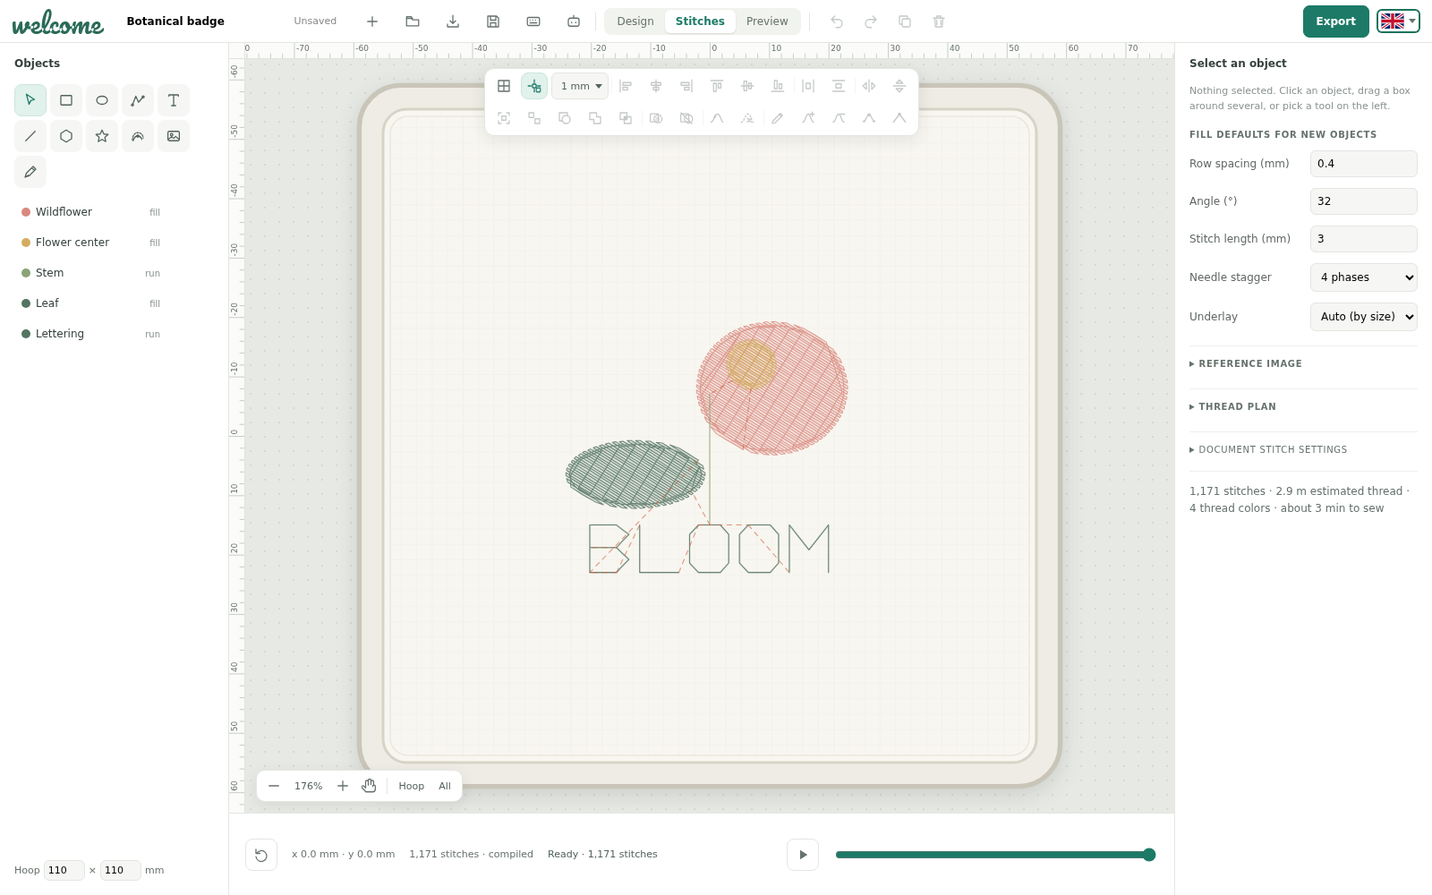
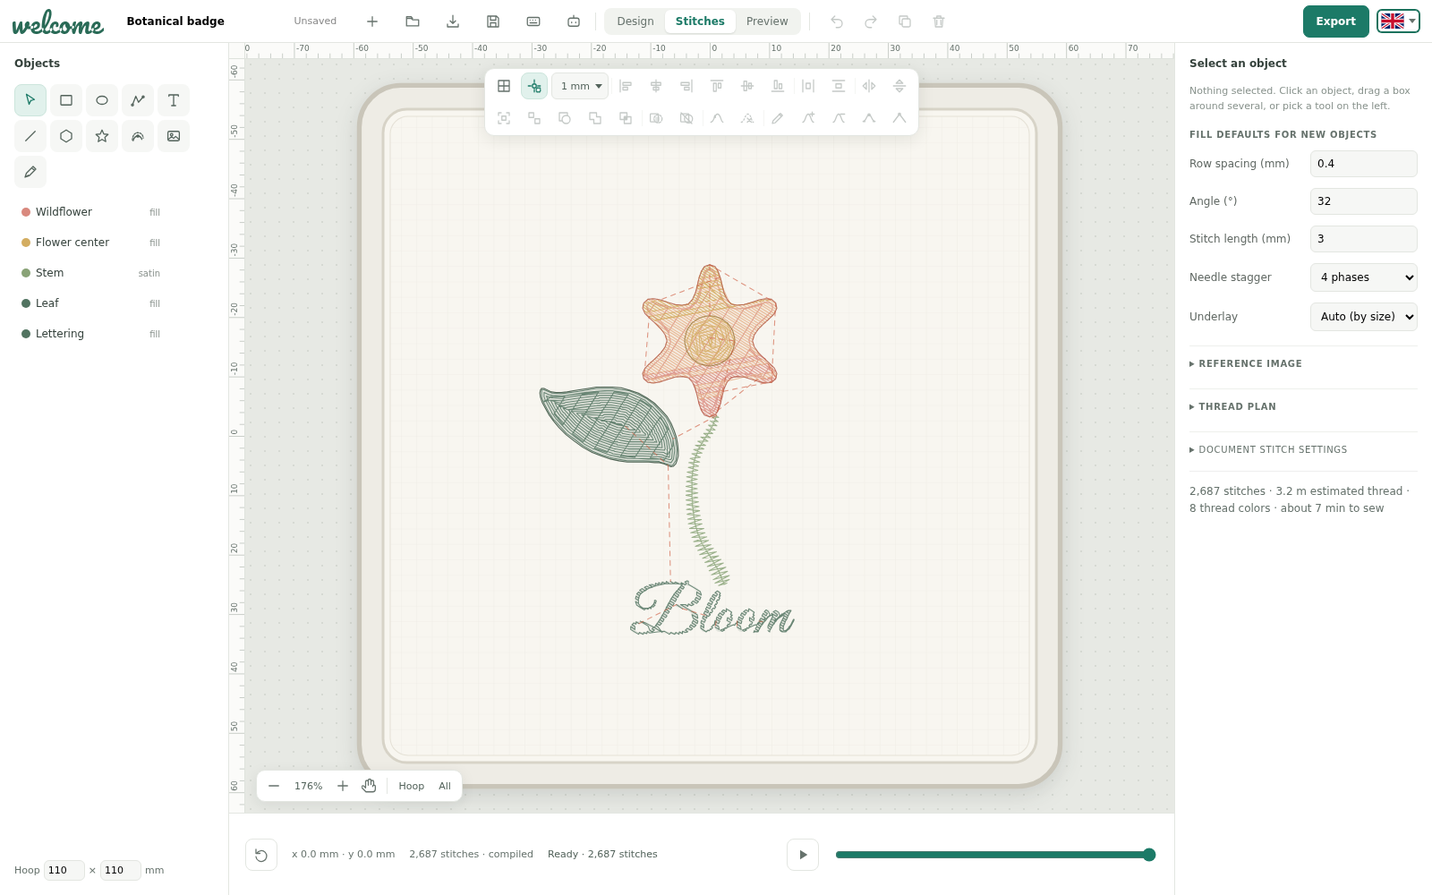
Improve the default botanical badge design

Changed region(s): [[0.375, 0.279, 0.5938, 0.713], [0.5312, 0.589, 0.5625, 0.62]]

diff --git a/index.html b/index.html
@@ -1,5 +1,5 @@
 <!doctype html>
-<html lang="en"><head><meta charset="utf-8"><meta name="viewport" content="width=device-width,initial-scale=1"><title>Welcome Embroidery</title><link rel="stylesheet" href="/styles.css"></head>
+<html lang="en"><head><meta charset="utf-8"><meta name="viewport" content="width=device-width,initial-scale=1"><title>Welcome Embroidery</title><link rel="stylesheet" href="styles.css"></head>
 <body>
 <svg class="icon-defs" aria-hidden="true" focusable="false"><defs>
  <symbol id="i-new" viewBox="0 0 24 24"><path d="M12 5v14M5 12h14"/></symbol>
@@ -110,4 +110,4 @@
 <div class="btn-row"><button id="ordBack" title="Sew first">To back</button><button id="ordBackward" title="Sew earlier">Earlier</button><button id="ordForward" title="Sew later">Later</button><button id="ordFront" title="Sew last">To front</button><button id="ordSort" title="Group objects by thread colour to minimise colour changes">Sort by colour</button></div>
 </details><details id="secRef" class="sec-fold"><summary>Reference image</summary><p id="refEmpty" class="sel-hint">Load a picture to draw over: it is shown under your shapes (never sewn), so you can trace it by hand with the drawing tools.</p><input id="refFile" type="file" accept="image/*" hidden><div class="btn-row"><button type="button" id="refLoad">Load picture…</button><button type="button" id="refRemove" hidden>Remove</button></div><div id="refControls" hidden><label>Opacity (%)<input id="refOpacity" type="range" min="5" max="100" step="5" value="50"></label><label>Show the picture <input id="refVisible" type="checkbox" checked></label><label>Lock its position <input id="refLocked" type="checkbox"></label><div class="xywh"><label>X<input id="refX" type="number" step="0.5"></label><label>Y<input id="refY" type="number" step="0.5"></label><label>W<input id="refW" type="number" min="1" step="0.5"></label><label>H<input id="refH" type="number" min="1" step="0.5"></label></div><div class="btn-row"><button type="button" id="refFit">Fit to hoop</button><button type="button" id="refMove" title="Drag the picture on the canvas to position it">Move on canvas</button></div></div></details><details id="secPlan" class="sec-fold"><summary>Thread plan</summary><p id="planEmpty" class="sel-hint">Compile the design to see the thread colours in sewing order.</p><div id="planList" class="plan-list"></div></details><details id="secDoc" class="doc-settings"><summary>Document stitch settings</summary><label>Tie-in / tie-off <input id="ties" type="checkbox"></label><label>Trim long jumps <input id="trims" type="checkbox"></label><label>Underlay <input id="underlay" type="checkbox" checked></label><label>Pull compensation (mm)<input id="comp" type="number" min="0" max="2" value="0.2" step="0.05"></label></details><p id="stats">No generated stitches.</p></aside></div><dialog id="agentDialog"><form method="dialog"><h2>Connect an AI agent</h2><p id="agentStatus" role="status" aria-live="polite"></p><label class="agent-field">MCP endpoint (private link)<input id="agentUrl" readonly spellcheck="false"></label><div class="agent-actions"><button type="button" id="agentCopy">Copy URL</button><button type="button" id="agentRevoke">Revoke &amp; make new link</button></div><p class="agent-help">Anyone holding this link can read and edit the design open in this tab, so share it only with your agent. Your design stays in this browser; the server only relays the agent's requests while this tab is open. Closing the tab ends the link. In the agent, use <code>documentId: "live"</code>, for example: “Use the Welcome MCP to draw a leaf badge with BLOOM lettering on the live document, then export JEF.”</p><button>Close</button></form></dialog>
 <div id="fontPanel" class="font-panel" role="dialog" aria-label="Choose a font" hidden><input id="fontSearch" type="search" placeholder="Search 195 fonts…" aria-label="Search fonts"><div id="fontChips" class="chips" role="group" aria-label="Font categories"></div><div id="fontList" class="font-list" role="listbox" aria-label="Fonts"></div><div class="font-foot"><button type="button" id="fontLoadFile">Load a TrueType file…</button><input id="fontFile" type="file" accept=".ttf,font/ttf,application/x-font-ttf" hidden><span>Fonts shown with your text · OFL / CC-BY-SA licences listed per font</span></div></div>
-<dialog id="traceDialog"><form method="dialog"><h2>Trace a picture</h2><p class="dlg-note">Turns a logo, drawing or clip art into filled shapes, one per colour region. For photographs use the photo stitch tool instead.</p><label class="agent-field">Picture<input id="traceFile" type="file" accept="image/*"></label><label>Mode<select id="traceMode"><option value="regions">Colour regions (filled shapes)</option><option value="lines">Line art (strokes)</option></select></label><label id="traceColorsRow">Colours<input id="traceColors" type="number" min="2" max="16" value="6"></label><label>Detail<select id="traceDetail"><option value="0.3">Fine</option><option value="0.5" selected>Normal</option><option value="1.2">Smooth</option></select></label><label>Width (mm)<input id="traceWidth" type="number" min="10" max="200" step="1" value="60"></label><label id="traceBgRow">Skip the background colour <input id="traceBg" type="checkbox" checked></label><p id="traceInfo" role="status"></p><div class="agent-actions"><button type="button" id="traceGo">Trace</button><button value="cancel">Cancel</button></div></form></dialog><dialog id="keysDialog"><form method="dialog"><h2>Keyboard shortcuts</h2><div id="keysList" class="keys-list"></div><button>Close</button></form></dialog><dialog id="restoreDialog"><form method="dialog"><h2>Restore your last design?</h2><p id="restoreInfo" class="dlg-note"></p><div class="agent-actions"><button type="button" id="restoreYes">Restore</button><button type="button" id="restoreNo">Start fresh</button></div></form></dialog><div id="threadPop" role="dialog" aria-label="Choose a thread colour" hidden></div><dialog id="exportDialog"><form method="dialog"><h2>Export embroidery</h2><select id="format"><option value="jef">JEF · Janome</option><option value="vp3">VP3 · Pfaff</option><option value="dst">DST · Tajima (widely supported)</option><option value="svg">SVG · vector design (Inkscape)</option></select><button id="download">Compile & download</button><button>Cancel</button><p>Check hoop and thread choices for your machine and materials.</p></form></dialog><div id="toast" role="status"></div><script type="module" src="/src/app.js"></script></body></html>
+<dialog id="traceDialog"><form method="dialog"><h2>Trace a picture</h2><p class="dlg-note">Turns a logo, drawing or clip art into filled shapes, one per colour region. For photographs use the photo stitch tool instead.</p><label class="agent-field">Picture<input id="traceFile" type="file" accept="image/*"></label><label>Mode<select id="traceMode"><option value="regions">Colour regions (filled shapes)</option><option value="lines">Line art (strokes)</option></select></label><label id="traceColorsRow">Colours<input id="traceColors" type="number" min="2" max="16" value="6"></label><label>Detail<select id="traceDetail"><option value="0.3">Fine</option><option value="0.5" selected>Normal</option><option value="1.2">Smooth</option></select></label><label>Width (mm)<input id="traceWidth" type="number" min="10" max="200" step="1" value="60"></label><label id="traceBgRow">Skip the background colour <input id="traceBg" type="checkbox" checked></label><p id="traceInfo" role="status"></p><div class="agent-actions"><button type="button" id="traceGo">Trace</button><button value="cancel">Cancel</button></div></form></dialog><dialog id="keysDialog"><form method="dialog"><h2>Keyboard shortcuts</h2><div id="keysList" class="keys-list"></div><button>Close</button></form></dialog><dialog id="restoreDialog"><form method="dialog"><h2>Restore your last design?</h2><p id="restoreInfo" class="dlg-note"></p><div class="agent-actions"><button type="button" id="restoreYes">Restore</button><button type="button" id="restoreNo">Start fresh</button></div></form></dialog><div id="threadPop" role="dialog" aria-label="Choose a thread colour" hidden></div><dialog id="exportDialog"><form method="dialog"><h2>Export embroidery</h2><select id="format"><option value="jef">JEF · Janome</option><option value="vp3">VP3 · Pfaff</option><option value="dst">DST · Tajima (widely supported)</option><option value="svg">SVG · vector design (Inkscape)</option></select><button id="download">Compile & download</button><button>Cancel</button><p>Check hoop and thread choices for your machine and materials.</p></form></dialog><div id="toast" role="status"></div><script type="module" src="src/app.js"></script></body></html>

diff --git a/src/app.js b/src/app.js
@@ -8,7 +8,7 @@ import {createFontPicker,fetchFontIndex,LEGACY} from './fontui.js';
 import {ttfToFont} from './ttf.js';
 import {designWarnings,widthAt,nodeFraction,initialDocument,geometry,applyOperations,validateDocument,measureText,parseSvgPath,makeStitchLayer,objectBounds,hoopSize,jefWarnings,exportSvg,textPrimitives} from './engine.js';
 const $=s=>document.querySelector(s),$$=s=>[...document.querySelectorAll(s)],svgNS='http://www.w3.org/2000/svg';
-const withSavedHoop=d=>{try{const h=JSON.parse((localStorage.getItem('welcome.hoop')??localStorage.getItem('welcom.hoop'))||'null');if(h&&Number.isFinite(h.w)&&Number.isFinite(h.h)&&h.w>=10&&h.w<=400&&h.h>=10&&h.h<=400){d.hoop=h.w;if(h.h===h.w)delete d.hoopH;else d.hoopH=h.h;}}catch{}return d;};let doc=withSavedHoop(initialDocument()),selected=null,history=[],future=[],plan=null,dirty=true,worker=new Worker('/src/worker.js',{type:'module'}),workerFailure=null,seq=0,generation=0,pending=new Map(),nodeDrag=null,selNodes=new Set(),canvasText=null,editMode=false,canvasView=null,collapsed=new Set(),clipboard=null,multi=new Set(),selNode=null,snapOn=false,gridSize=1,view='design',playIndex=null,playbackTimer=null;
+const withSavedHoop=d=>{try{const h=JSON.parse((localStorage.getItem('welcome.hoop')??localStorage.getItem('welcom.hoop'))||'null');if(h&&Number.isFinite(h.w)&&Number.isFinite(h.h)&&h.w>=10&&h.w<=400&&h.h>=10&&h.h<=400){d.hoop=h.w;if(h.h===h.w)delete d.hoopH;else d.hoopH=h.h;}}catch{}return d;};let doc=withSavedHoop(initialDocument()),selected=null,history=[],future=[],plan=null,dirty=true,worker=new Worker(new URL('./worker.js',import.meta.url),{type:'module'}),workerFailure=null,seq=0,generation=0,pending=new Map(),nodeDrag=null,selNodes=new Set(),canvasText=null,editMode=false,canvasView=null,collapsed=new Set(),clipboard=null,multi=new Set(),selNode=null,snapOn=false,gridSize=1,view='design',playIndex=null,playbackTimer=null;
 worker.onmessage=e=>{if(e.data.generation!==generation)return;const p=pending.get(e.data.id);if(!p)return;pending.delete(e.data.id);e.data.ok?p.resolve(e.data):p.reject(Error(e.data.error));};
 function failPending(error){workerFailure??=error;for(const item of pending.values())item.reject(workerFailure);pending.clear();}
 worker.addEventListener('error',e=>{e.preventDefault();failPending(Error(`Stitch worker failed to load or run${e.message?`: ${e.message}`:''}. Reload the editor and try again.`));});
@@ -33,7 +33,7 @@ function syncPlaybackControls(){
 }
 // ---- fonts: bundled fonts load on demand; the document's own (loaded-from-file) fonts are registered from doc.customFonts
 let fontIndex=[...LEGACY],newTextFont='welcom-mono/1';const fontLoading=new Set(),fontFailed=new Set();
-const fetchJson=path=>fetch('/'+path).then(r=>{if(!r.ok)throw Error(`Font file ${path} could not be loaded (${r.status}).`);return r.json();});
+const fetchJson=path=>fetch(new URL('../'+path,import.meta.url)).then(r=>{if(!r.ok)throw Error(`Font file ${path} could not be loaded (${r.status}).`);return r.json();});
 const ensureFontLoaded=id=>(!isRegistryFont(id)||id.startsWith('custom/')||getFont(id))?Promise.resolve():loadFont(id,fetchJson);
 async function ensureDocFonts(){registerDocumentFonts(doc);await Promise.all(documentFontIds(doc).map(ensureFontLoaded));}
 function kickFontLoads(){registerDocumentFonts(doc);for(const id of documentFontIds(doc)){if(id.startsWith('custom/')||getFont(id)||fontLoading.has(id)||fontFailed.has(id))continue;fontLoading.add(id);ensureFontLoaded(id).then(()=>{fontLoading.delete(id);render();},()=>{fontLoading.delete(id);fontFailed.add(id);toast(`Font ${id} could not be loaded.`);});}}
@@ -331,6 +331,7 @@ function addLayerRemote(layer,expected){
 const agentTexts={idle:'Not connected.',waiting:'Connected. Waiting for an agent to use the link.',active:'Agent active.',error:'Connection problem.',unavailable:'Agent relay unavailable.'};
[1 lines of base64/hex data omitted]
 $('#copyEndpoint').onclick=async()=>{$('#agentDialog').showModal();if(!agent.hasSession())await agent.start();};
+if(document.querySelector('meta[name="welcome-static"]'))$('#copyEndpoint').hidden=true;
 $('#agentCopy').onclick=async()=>{const url=$('#agentUrl').value;try{await navigator.clipboard.writeText(url);toast('Copied the private MCP link.');}catch{$('#agentUrl').select();toast('Select and copy the link.');}};
 $('#agentRevoke').onclick=async()=>{if(confirm(t('Revoke this link? Agents using it lose access immediately.')))await agent.revoke();};
 $('#agentUrl').onfocus=e=>e.target.select();

diff --git a/src/engine.js b/src/engine.js
@@ -33,11 +33,29 @@ export function exportSvg(doc){
 export function jefWarnings(plan,format='jef'){if(format!=='jef'||!plan.bounds)return [];const w=plan.bounds[2]-plan.bounds[0],h=plan.bounds[3]-plan.bounds[1];return w>=200||h>=200?[`Warning: ${w.toFixed(0)} × ${h.toFixed(0)} mm is beyond the largest JEF hoop code (200 × 200 mm); the file gets hoop code 0 and no hoop-edge distances, and machines may reject it.`]:[];}
 export function initialDocument() {
   return {schema:'welcom/1',name:'Botanical badge',revision:0,hoop:110,settings:{spacing:.4,angle:32,underlay:true,compensation:.2},objects:[
-    {id:'flower',name:'Wildflower',kind:'ellipse',x:-2,y:-19,w:25,h:22,thread:'#d9897e',stitch:'fill'},
-    {id:'center',name:'Flower center',kind:'ellipse',x:3,y:-16,w:8,h:8,thread:'#d3ad61',stitch:'fill'},
-    {id:'stem',name:'Stem',kind:'path',points:[[0,-7],[0,15]],x:0,y:0,w:0,h:0,thread:'#89a377',stitch:'run'},
-    {id:'leaf',name:'Leaf',kind:'ellipse',x:-24,y:1,w:23,h:11,thread:'#527461',stitch:'fill'},
-    {id:'letters',name:'Lettering',kind:'text',text:'BLOOM',x:-21,y:23,w:42,h:8,thread:'#527461',stitch:'run',font:'welcom-mono/1'}
+    // Six-petal blossom: a smooth Bézier rosette (not a flat ellipse) filled with tatami rows blended across a
+    // three-colour palette (coral -> peach -> gold) for thread-painted shading, finished with a crisp satin-like border.
+    {id:'flower',name:'Wildflower',kind:'path',closed:true,smooth:true,
+      points:[[0,-28.8],[3.6,-22.24],[11.09,-22.4],[7.2,-16],[11.09,-9.6],[3.6,-9.76],[0,-3.2],[-3.6,-9.76],[-11.09,-9.6],[-7.2,-16],[-11.09,-22.4],[-3.6,-22.24]],
+      handles:[{i:[-2.5,-28.8],o:[2.5,-28.8]},{i:[1.44,-23.48],o:[5.76,-20.99]},{i:[9.84,-24.56],o:[12.33,-20.24]},{i:[7.2,-18.5],o:[7.2,-13.5]},{i:[12.33,-11.76],o:[9.84,-7.44]},{i:[5.76,-11.01],o:[1.44,-8.52]},{i:[2.5,-3.2],o:[-2.5,-3.2]},{i:[-1.44,-8.52],o:[-5.76,-11.01]},{i:[-9.84,-7.44],o:[-12.33,-11.76]},{i:[-7.2,-13.5],o:[-7.2,-18.5]},{i:[-12.33,-20.24],o:[-9.84,-24.56]},{i:[-5.76,-20.99],o:[-1.44,-23.48]}],
+      x:-11.09,y:-28.8,w:22.18,h:25.6,
+      thread:'#d9897e',stitch:'fill',fillMethod:'rows',blendPalette:['#d9897e','#e5b089','#d3ad61'],blendAngle:-100,border:true,borderThread:'#b5614f'},
+    // Spiral-stitched center with its own ring border, so the eye lands on a round swirl rather than a flat dot.
+    {id:'center',name:'Flower center',kind:'ellipse',x:-4.2,y:-20.2,w:8.4,h:8.4,thread:'#d3ad61',stitch:'fill',fillMethod:'spiral',underlayType:'center',border:true,borderThread:'#9c7a3a'},
+    // Curved satin stem tapering from a wider base to a fine tip at the blossom: real tapered rails, not a thin running line.
+    {id:'stem',name:'Stem',kind:'path',closed:false,smooth:false,
+      points:[[2,24],[-3,10],[1,-3]],
+      handles:[{i:[3.67,28.67],o:[0.33,19.33]},{i:[-2.67,19],o:[-3.33,1]},{i:[-0.33,1.33],o:[2.33,-7.33]}],
+      x:-3,y:-3,w:5,h:27,
+      thread:'#89a377',stitch:'satin',satinWidth:2.4,satinWidthEnd:.8,cap:'round'},
+    // Pointed lanceolate leaf (Bézier again, not an ellipse) with a contour fill that reads as natural venation, plus a border.
+    {id:'leaf',name:'Leaf',kind:'path',closed:true,smooth:true,
+      points:[[-7,5],[-10.6,-6.45],[-27.35,-7.72],[-21.45,1.86]],
+      handles:[{i:[-9.44,3.47],o:[-4.56,6.53]},{i:[-3.88,-2.25],o:[-17.32,-10.65]},{i:[-24.5,-5.94],o:[-30.2,-9.5]},{i:[-28.17,-2.34],o:[-14.73,6.06]}],
+      x:-27.35,y:-7.72,w:20.35,h:12.72,
+      thread:'#527461',stitch:'fill',fillMethod:'contour',border:true,borderThread:'#38503f'},
+    // Cursive wordmark in a bundled script font (filled, not a mono running line), so the lettering reads as sewn calligraphy.
+    {id:'letters',name:'Lettering',kind:'text',text:'Bloom',x:-13.45,y:33,w:26.9,h:11,thread:'#527461',stitch:'fill',fillMethod:'rows',font:'ttf/greatvibes'}
   ]};
 }
 export function makeStitchLayer(decoded,format,{id=crypto.randomUUID(),name='Imported embroidery',fileName='design',originalBytesBase64=null,sha256=null,size=0}={}){

diff --git a/test/editor.spec.js b/test/editor.spec.js
@@ -761,7 +761,9 @@ test('agents can see the reference picture: annotated view with grid, hoop and s
 });
 
 test('DST files import as stitch layers (a DST written by Welcome comes back)',async({page})=>{
- const {encode,compile:compileDoc,initialDocument:initDoc}=await import('../src/engine.js'),d=initDoc(),bytes=Buffer.from(encode(compileDoc(d),'dst',undefined,d.hoop,d));
+ const {encode,compile:compileDoc,initialDocument:initDoc}=await import('../src/engine.js'),{registerFont}=await import('../src/fonts.js'),fs=await import('node:fs/promises');
+ registerFont('ttf/greatvibes',JSON.parse(await fs.readFile(new URL('../fonts/ttf/greatvibes.json',import.meta.url),'utf8')));
+ const d=initDoc(),bytes=Buffer.from(encode(compileDoc(d),'dst',undefined,d.hoop,d));
  const errors=[];page.on('pageerror',e=>errors.push(e.message));await page.goto('/');page.on('dialog',d2=>d2.accept());await page.locator('#new').click();
  await page.locator('#machineFile').setInputFiles({name:'badge.dst',mimeType:'application/octet-stream',buffer:bytes});
  await expect(page.locator('.object-row')).toHaveCount(1);await expect(page.locator('#sourceInfo')).toContainText(/DST/i);await expect(page.locator('#count')).toContainText('stitches');
@@ -841,7 +843,7 @@ test('keyboard shortcut list opens with ? and the listed tool keys really work; 
  await page.keyboard.press('?');await expect(page.locator('#keysDialog')).toBeVisible();await expect(page.locator('#keysList')).toContainText('Ctrl+G / Ctrl+Shift+G');await page.keyboard.press('Escape');await expect(page.locator('#keysDialog')).toBeHidden();
  await page.locator('#helpBtn').click();await expect(page.locator('#keysDialog')).toBeVisible();await page.keyboard.press('Escape');
  for(const [key,id] of [['n','path'],['p','pen'],['l','line'],['g','polygon'],['s','star'],['v','select']]){await page.locator('#art').hover();await page.keyboard.press(key);await expect(page.locator('#'+id)).toHaveClass(/active-tool/);}
- await page.locator('#secPlan summary').click();await expect(page.locator('#planList .plan-row')).toHaveCount(4);await expect(page.locator('#planList .plan-row').first()).toContainText('1.');await expect(page.locator('#planEmpty')).toBeHidden();
+ await page.locator('#secPlan summary').click();await expect(page.locator('#planList .plan-row')).toHaveCount(10);await expect(page.locator('#planList .plan-row').first()).toContainText('1.');await expect(page.locator('#planEmpty')).toBeHidden();
  expect(errors).toEqual([]);
 });
 

diff --git a/styles.css b/styles.css
@@ -216,12 +216,13 @@ body{height:auto;min-height:0;overflow-x:hidden;overflow-y:auto}
 .layout>.panel:last-child{display:block;order:4;width:auto;overflow:visible;border-left:0;border-right:0;border-top:1px solid #e3e6e1}
 .layout>aside.panel:first-child{display:contents}
 .layout>aside.panel:first-child>h3{display:none}
-.layout .tool-row{order:0;display:grid;grid-template-columns:repeat(7,36px);justify-content:center;gap:4px;margin:0;padding:10px 10px 8px;background:#fff;border-top:1px solid #e3e6e1}
+.layout .tool-row{order:0;display:grid;grid-auto-flow:column;grid-auto-columns:36px;justify-content:start;gap:4px;margin:0;padding:10px 10px 8px;background:#fff;border-top:1px solid #e3e6e1;overflow-x:auto;scrollbar-width:none}
 #objects{order:2;margin:0;padding:0 10px}
 .layout .hoop-edit{order:3;margin:0;padding:8px 10px 14px}
 .layout .footer.hoop-edit{position:static}
 .canvas{height:62vh;height:62dvh;min-height:340px}
 .canvas .floating{left:8px;right:8px;top:28px;width:auto;max-width:none;transform:none;justify-content:start;overflow-x:auto;scrollbar-width:none;grid-template-columns:repeat(14,30px);gap:6px 4px;padding:6px}
+@media (min-width:601px) and (max-width:1100px){.canvas .floating{display:flex;flex-wrap:wrap;justify-content:center;align-content:center;overflow-x:visible}.canvas .floating #grid{width:64px;grid-column:auto}}
 .canvas .floating .icon-button{width:30px;min-width:30px;height:30px}
 .zoombar{left:8px;bottom:8px}
 .layout main>footer{height:auto;min-height:56px;flex-wrap:wrap;padding:8px 12px;gap:8px 10px}

diff --git a/src/fontui.js b/src/fontui.js
@@ -11,7 +11,7 @@ export const CATEGORIES=[['all','All',()=>true],['satin','Satin',f=>f.keywords?.
   ['serif','Serif',f=>f.keywords?.includes('serif')],['sans','Sans',f=>f.keywords?.some(k=>k==='sans_serif'||k==='sans')],['script','Script',f=>f.keywords?.some(k=>k==='handwriting'||k==='script')],['display','Display',f=>f.keywords?.some(k=>k==='display'||k==='monogram')],
   ['tt','TrueType',f=>f.kind==='outline'&&f.fid?.startsWith('ttf/')],['ink','Ink/Stitch',f=>f.fid?.startsWith('inkstitch/')],['custom','Loaded',f=>f.fid?.startsWith('custom/')]];
 
-export async function fetchFontIndex(){const out=[...LEGACY];for(const group of ['inkstitch','ttf']){try{const r=await fetch(`/fonts/${group}/index.json`);if(!r.ok)continue;for(const f of await r.json())out.push({...f,fid:`${group}/${f.id}`});}catch{}}return out;}
+export async function fetchFontIndex(){const out=[...LEGACY];for(const group of ['inkstitch','ttf']){try{const r=await fetch(new URL(`../fonts/${group}/index.json`,import.meta.url));if(!r.ok)continue;for(const f of await r.json())out.push({...f,fid:`${group}/${f.id}`});}catch{}}return out;}
 
 // Draw a font's rendering of `text` into an <svg>. Fills use even-odd rings, satin columns are shown as their band, running stitch as a thin line.
 export function drawPreview(svg,fid,text,color='#1d2925'){

diff --git a/src/agent.js b/src/agent.js
@@ -10,7 +10,7 @@ export function createAgentBridge({getDocument,applyRemote,addLayerRemote,getRef
   const url=()=>session?`${location.origin}/mcp/${session.token}`:null;
   async function create(){
     let response;try{response=await fetch('/api/session',json({}));}catch{set({status:'unavailable',message:'The Welcome server is not reachable.'});return false;}
-    if(response.status===404||response.status===405){set({status:'unavailable',message:'This copy of Welcome is a static site without the agent relay. Run the Welcome server (self-host, desktop app) or use welcome.design.'});return false;}
+    if(response.status===404||response.status===405){set({status:'unavailable',message:'This copy of Welcome is a static site without the agent relay. Run the Welcome server or the desktop app to connect an agent.'});return false;}
     const body=await response.json().catch(()=>({}));if(!response.ok){set({status:'error',message:body.error||'Could not create an agent link.'});return false;}
     session={token:body.token,ownerKey:body.ownerKey};try{sessionStorage.setItem(KEY,JSON.stringify(session));}catch{}return true;
   }

diff --git a/test/engine.test.js b/test/engine.test.js
@@ -32,7 +32,10 @@ test('document validation rejects unsupported schemas and out-of-hoop output',()
 test('JEF and VP3 files are deterministic and carry real format signatures',()=>{
  const p=compile(initialDocument()),jef=encode(p,'jef','#527461'),vp3=encode(p,'vp3','#527461');
  assert.deepEqual(encode(p,'jef','#527461'),jef);assert.deepEqual(encode(p,'vp3','#527461'),vp3);
- assert.equal(new DataView(jef.buffer).getUint32(0,true),116+compile(initialDocument()).colors.length*8);
+ // offset to the stitch data must equal 116 + 8 bytes per thread-change block (the JEF header's own declared thread count,
+ // field 24) -- not simply the count of distinct thread colours, since a colour sewn in two separate passes (e.g. a fill and
+ // its border, revisited later by another object) produces more blocks than unique colours.
+ assert.equal(new DataView(jef.buffer).getUint32(0,true),116+new DataView(jef.buffer).getUint32(24,true)*8);
  assert.equal(new TextDecoder().decode(vp3.slice(0,5)),'%vsm%');
  assert.ok(jef.byteLength>1000);assert.ok(vp3.byteLength>500);
 });

diff --git a/src/worker.js b/src/worker.js
@@ -1,7 +1,7 @@
 import {compile,encode} from './engine.js';
 import {loadFont,getFont,isRegistryFont,documentFontIds,registerDocumentFonts} from './fonts.js';
 // Text uses fonts the worker may not have yet: fetch the bundled ones this document needs, and register the ones stored in it.
-const fontJson=path=>fetch('/'+path).then(r=>{if(!r.ok)throw Error(`Font file ${path} could not be loaded (${r.status}).`);return r.json();});
+const fontJson=path=>fetch(new URL('../'+path,import.meta.url)).then(r=>{if(!r.ok)throw Error(`Font file ${path} could not be loaded (${r.status}).`);return r.json();});
 async function ensureFonts(doc){registerDocumentFonts(doc);await Promise.all(documentFontIds(doc).filter(id=>!id.startsWith('custom/')&&!getFont(id)).map(id=>loadFont(id,fontJson)));}
 import {decodeEmbroidery} from './readers.js';
 function base64(bytes){let text='';for(let i=0;i<bytes.length;i+=0x8000)text+=String.fromCharCode(...bytes.subarray(i,Math.min(i+0x8000,bytes.length)));return btoa(text);}
